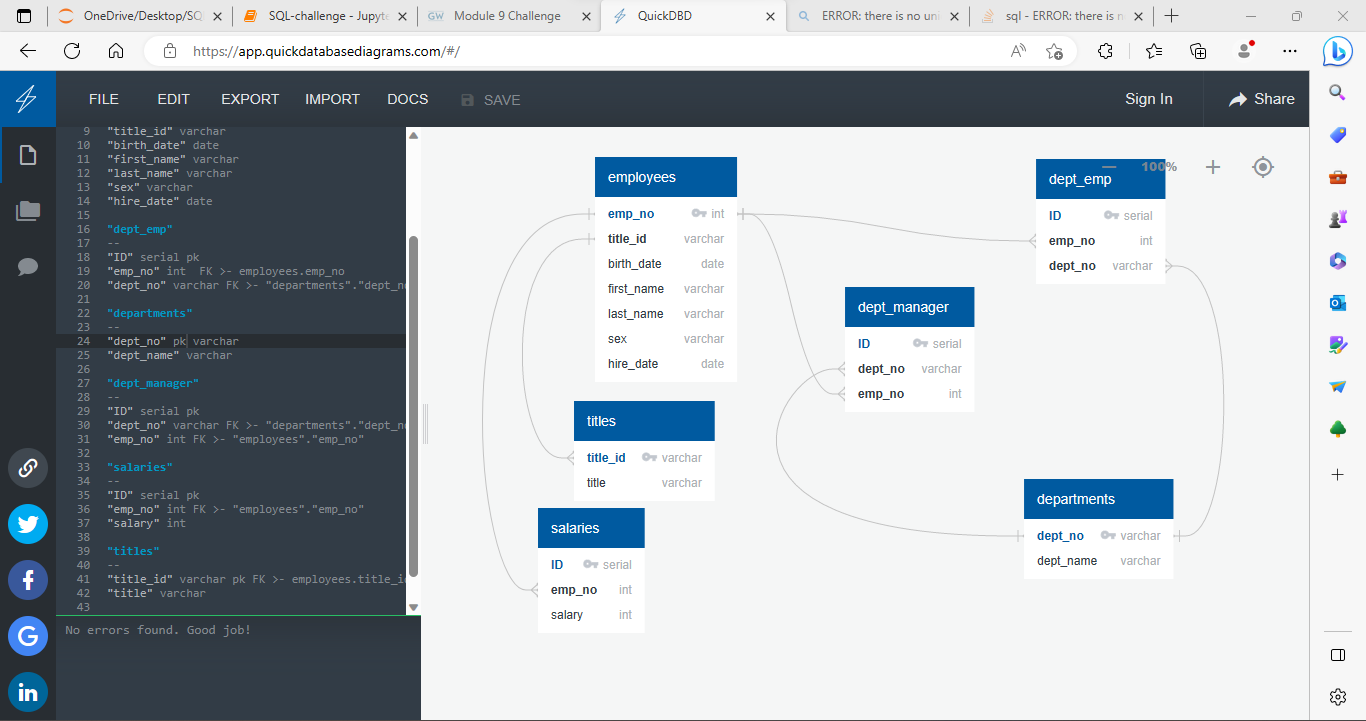
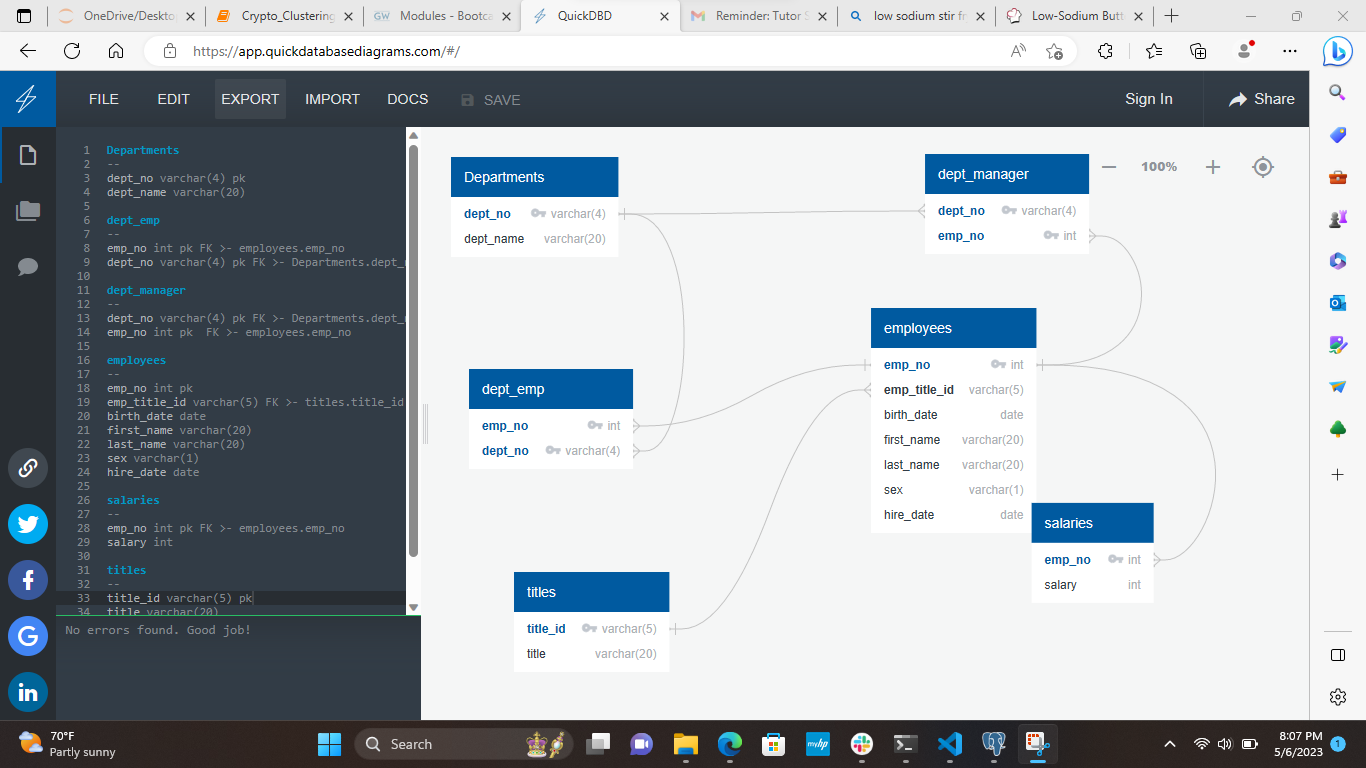
finished assignment

diff --git a/README.md b/README.md
@@ -1,1 +1,39 @@
 # SQL-challenge
+
+Deliverables: 
+data modeling - SQL-challenge.ipynb (notebook to determine columns and data tpyes for provided csv)
+data engineering -  employeeSQL\postgre file
+                    employeeSQL\table creation
+data analysis - employeeSQL\employees data SQL
+
+Instructions:
+<bold>Data Modeling<bold>
+Inspect the CSV files, and then sketch an Entity Relationship Diagram of the tables. To create the sketch, feel free to use a tool like QuickDBDLinks to an external site..
+
+<bold>Data Engineering<bold>
+Use the provided information to create a table schema for each of the six CSV files. Be sure to do the following:
+
+Remember to specify the data types, primary keys, foreign keys, and other constraints.
+
+For the primary keys, verify that the column is unique. Otherwise, create a composite keyLinks to an external site., which takes two primary keys to uniquely identify a row.
+
+Be sure to create the tables in the correct order to handle the foreign keys.
+
+Import each CSV file into its corresponding SQL table.
+
+<bold>Data Analysis<bold>
+List the employee number, last name, first name, sex, and salary of each employee.
+
+List the first name, last name, and hire date for the employees who were hired in 1986.
+
+List the manager of each department along with their department number, department name, employee number, last name, and first name.
+
+List the department number for each employee along with that employee’s employee number, last name, first name, and department name.
+
+List first name, last name, and sex of each employee whose first name is Hercules and whose last name begins with the letter B.
+
+List each employee in the Sales department, including their employee number, last name, and first name.
+
+List each employee in the Sales and Development departments, including their employee number, last name, first name, and department name.
+
+List the frequency counts, in descending order, of all the employee last names (that is, how many employees share each last name).
